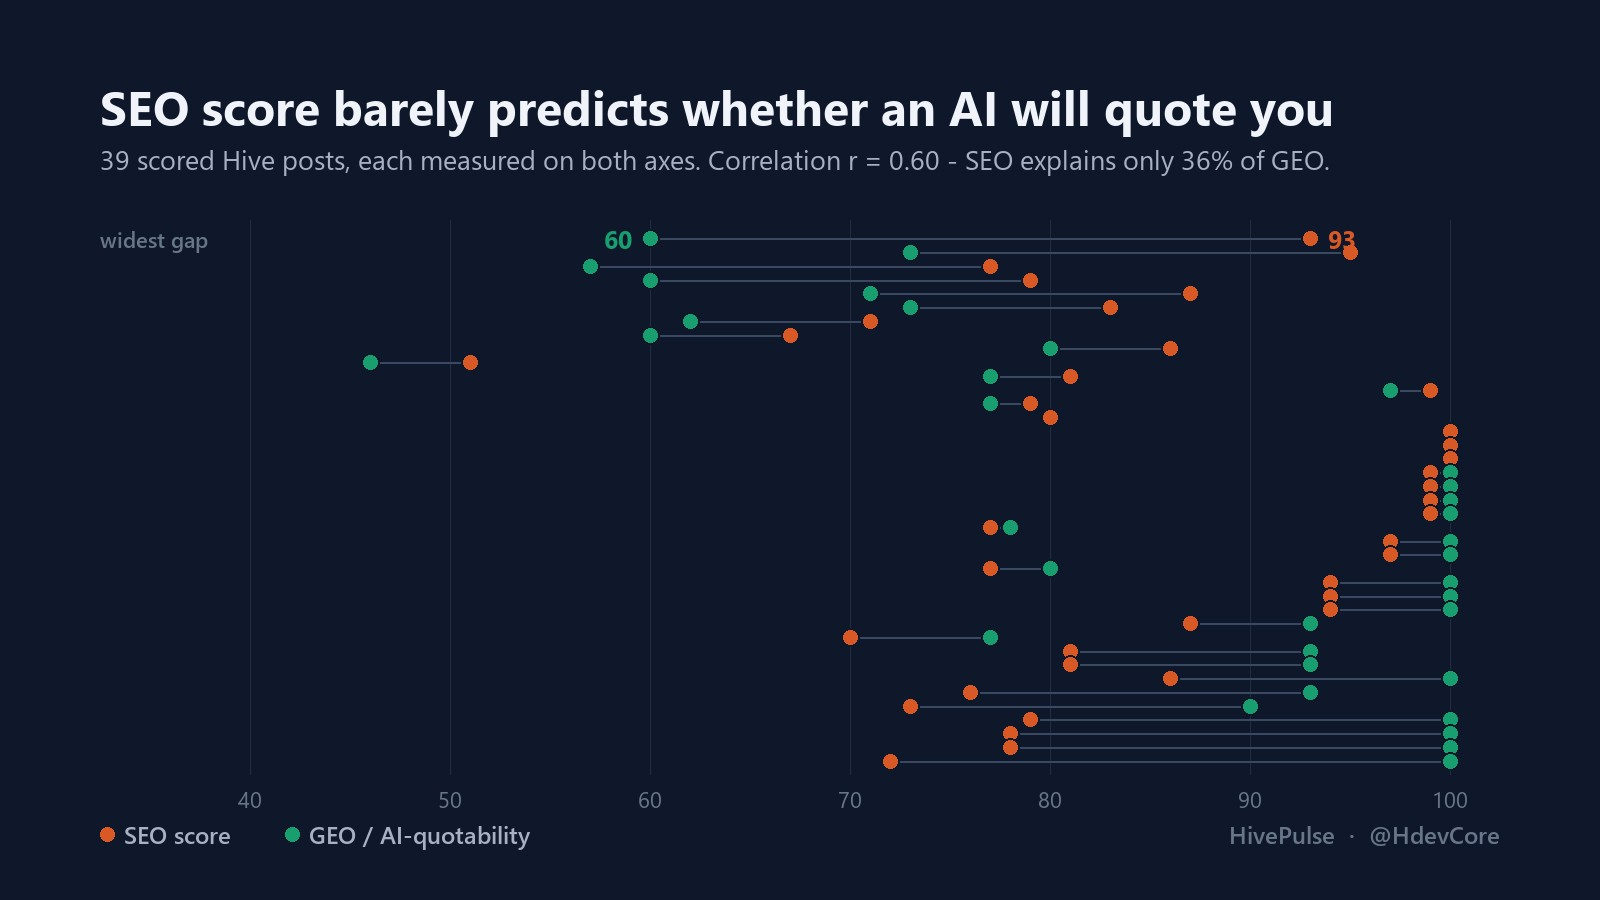
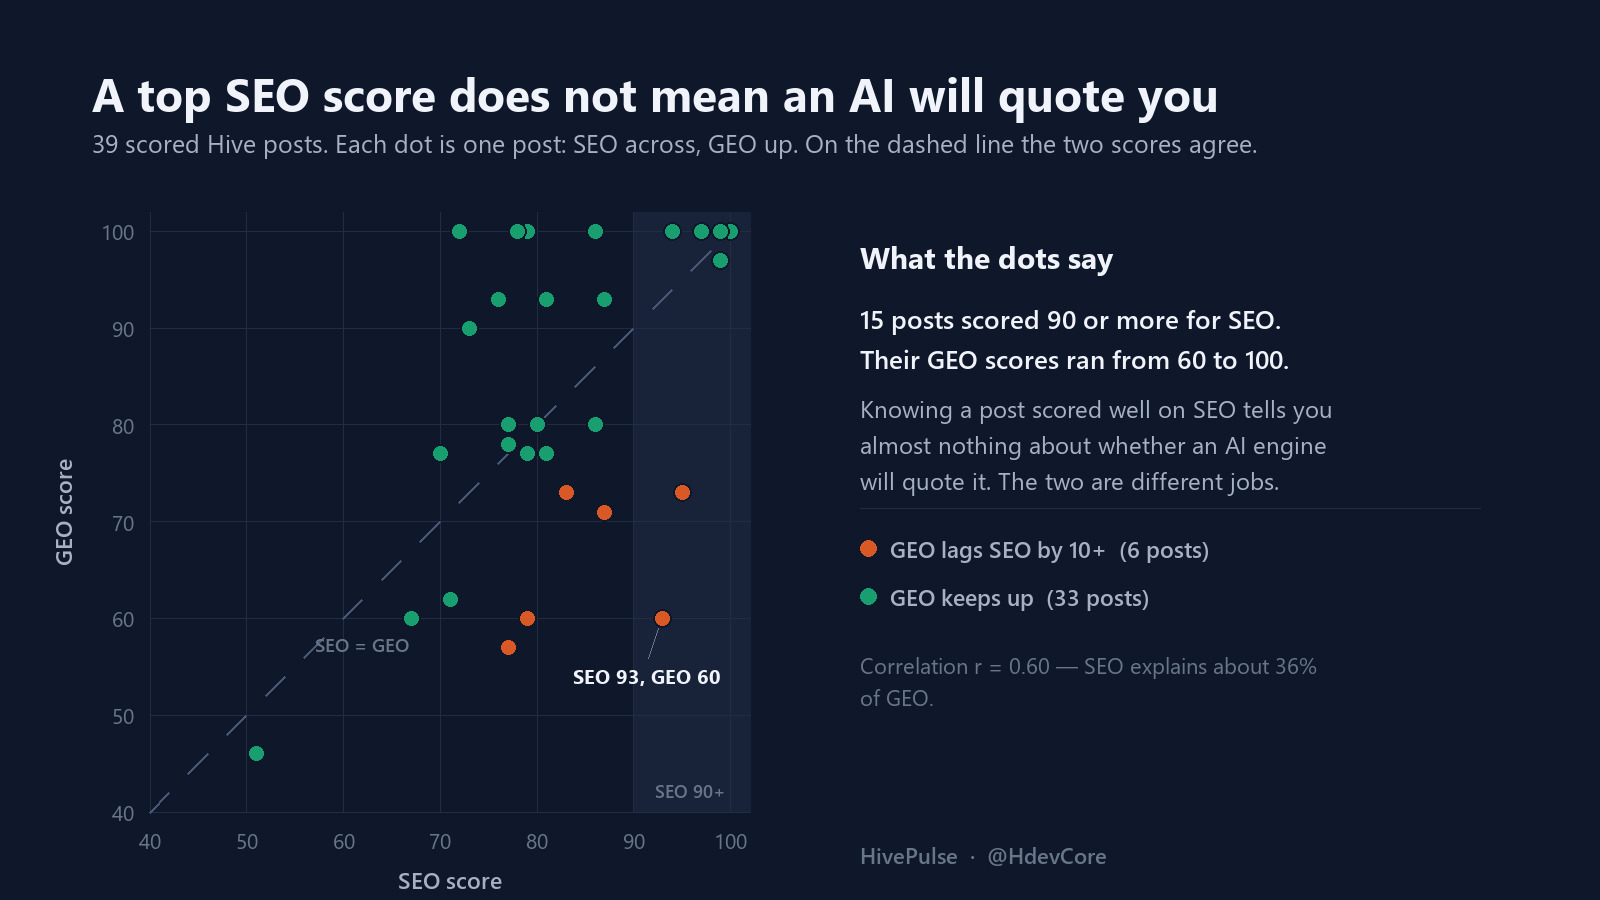
Redraw the SEO/GEO chart as a scatter — the dumbbell was unreadable
Asked what the old chart was saying, and could not answer it from the
picture. That is the verdict: if the person who ran the contest cannot read
it, nobody scrolling past will.

The dumbbell was the wrong form. The headline is a claim about a
RELATIONSHIP between two measures, and a dumbbell shows 39 unlabelled gaps
with the orange and green dots swapping sides depending on which score is
higher — no consistent direction to read, and a pile of overlapping dots at
the bottom where both scores are near 100. You had to already know the
conclusion to see it.

A scatter states it directly: SEO across, GEO up, with a dashed diagonal
where the two agree. Every dot below the line is a post whose GEO lags its
SEO, and the six worst are coloured.

The headline also changed, from a statistic to a fact. "15 posts scored 90
or more on SEO, and their GEO ran from 60 to 100" is the same information as
r = 0.60 but readable without statistics. Both are on the chart; the range
leads.

Palette re-validated with the dataviz skill's validator against this dark
surface rather than eyeballed — #d95926 / #199e70 passes lightness band,
chroma, CVD (deutan dE 9.4), normal-vision separation (26.5) and contrast.
Three candidate palettes failed the lightness band first.

Rendered and looked at it three times. First pass: the footer sat on the
x-axis title, and the worst-case label landed beside a different orange dot.
Second pass: the band label was hidden behind the row of dots at GEO 100.
[…]

diff --git a/scripts/make_week6_chart.py b/scripts/make_week6_chart.py
@@ -1,16 +1,27 @@
 #!/usr/bin/env python3
 """
-Dumbbell chart: SEO score vs GEO (AI-quotability) across every scored contest post.
-
-The story is the GAP between the two measures, so rows are sorted by gap descending
-and each post gets one connected pair. Posts are unlabelled — the distribution is the
-point, and naming individuals next to a low score adds nothing analytically.
-
-Palette validated with the dataviz skill's validator against a dark surface:
-  #d95926 / #199e70 — lightness band PASS, chroma PASS, CVD deutan dE 9.4 PASS,
-  normal-vision dE 26.5 PASS, contrast PASS.
+Scatter: SEO score against GEO (AI-quotability) for every scored contest post.
 
     python scripts/make_week6_chart.py
+
+Writes enhancements/images/social/geo-vs-seo-week6.jpg at 1600x900.
+
+Replaces a dumbbell chart that could not carry its own headline. The claim is about a
+RELATIONSHIP between two measures, and a dumbbell shows 39 unlabelled gaps with the two
+colours swapping sides depending on which score is higher — you had to already know the
+conclusion to see it. A scatter with an equal-scores diagonal shows the claim directly:
+every dot below the line is a post whose GEO lags its SEO.
+
+The headline is stated as a range rather than as r, because "15 posts scored 90+ on SEO and
+their GEO ran from 60 to 100" is the same fact as r = 0.60 and can be read without
+statistics. Both appear; the range leads.
+
+Palette #d95926 / #199e70 validated with the dataviz skill's validator against this dark
+surface: lightness band PASS, chroma PASS, CVD deutan dE 9.4 PASS, normal-vision dE 26.5
+PASS, contrast PASS.
+
+Posts are unlabelled by name on purpose — the distribution is the point, and naming an
+individual next to a low score adds nothing.
 """
 
 from PIL import Image, ImageDraw, ImageFont
@@ -23,35 +34,39 @@ SURFACE = (15, 23, 42)
 INK     = (240, 244, 250)
 INK_2   = (166, 178, 196)
 INK_3   = (104, 118, 138)
-SEO_C   = (217, 89, 38)     # #d95926
-GEO_C   = (25, 158, 112)    # #199e70
+LAG_C   = (217, 89, 38)     # #d95926 — GEO lags SEO by 10+
+OK_C    = (25, 158, 112)    # #199e70 — GEO keeps up
 GRID    = (34, 45, 66)
+BAND    = (24, 34, 56)
+
+LAG_GAP = 10                # points of SEO-minus-GEO that counts as "lagging"
 
 F = {'bold': ['C:/Windows/Fonts/segoeuib.ttf', 'C:/Windows/Fonts/arialbd.ttf'],
      'semi': ['C:/Windows/Fonts/seguisb.ttf', 'C:/Windows/Fonts/segoeuib.ttf'],
      'reg':  ['C:/Windows/Fonts/segoeui.ttf', 'C:/Windows/Fonts/arial.ttf']}
 _c = {}
+
+
 def font(w, s):
     k = (w, s)
     if k not in _c:
         for p in F[w]:
             if os.path.exists(p):
-                _c[k] = ImageFont.truetype(p, s); break
+                _c[k] = ImageFont.truetype(p, s)
+                break
         else:
             _c[k] = ImageFont.load_default()
     return _c[k]
 
 
 def load():
-    # Every archived round, not just the first two. Week 3's CSV was never archived, so
-    # this covers 39 of the 46 posts scored to date — the distribution is the point, and
-    # the correlation below is recomputed from whatever is actually loaded rather than
-    # carried over from an earlier round.
+    """Every archived round. Week 3's CSV was never archived, so this is 39 of the 46
+    posts scored to date."""
     rows = []
     for f in sorted(glob.glob('contest-results-week*.csv')):
         for r in csv.DictReader(open(f, encoding='utf-8')):
             rows.append((int(r['seo_pct']), int(r['geo_score'])))
-    return sorted(rows, key=lambda t: -(t[0] - t[1]))     # widest gap first
+    return rows
 
 
 def pearson(data):
@@ -66,62 +81,102 @@ def pearson(data):
 
 def main():
     data = load()
+    r = pearson(data)
+    hi = [b for a, b in data if a >= 90]
+
     im = Image.new('RGB', (W, H), SURFACE)
     d = ImageDraw.Draw(im)
 
     # ── header
-    d.text((100, 74), 'SEO score barely predicts whether an AI will quote you',
-           font=font('bold', 48), fill=INK)
-    r = pearson(data)
-    d.text((100, 140),
-           f'{len(data)} scored Hive posts, each measured on both axes. '
-           f'Correlation r = {r:.2f} - SEO explains only {r*r*100:.0f}% of GEO.',
-           font=font('reg', 27), fill=INK_2)
+    d.text((92, 62), 'A top SEO score does not mean an AI will quote you',
+           font=font('bold', 46), fill=INK)
+    d.text((92, 126),
+           f'{len(data)} scored Hive posts. Each dot is one post: SEO across, GEO up. '
+           'On the dashed line the two scores agree.',
+           font=font('reg', 25), fill=INK_2)
 
-    # ── plot geometry
-    x0, x1 = 250, W - 150
-    y0, y1 = 232, H - 132
-    lo, hi = 40, 100
-    sx = lambda v: x0 + (v - lo) / (hi - lo) * (x1 - x0)
-    step = (y1 - y0) / len(data)
+    # ── plot geometry: square, because both axes are the same 0-100 unit
+    lo, hi_ax = 40, 102
+    x0, x1 = 150, 750
+    y0, y1 = 212, 812
+    sx = lambda v: x0 + (v - lo) / (hi_ax - lo) * (x1 - x0)
+    sy = lambda v: y1 - (v - lo) / (hi_ax - lo) * (y1 - y0)
 
-    # recessive grid + axis labels
-    for v in range(lo, hi + 1, 10):
-        d.line([(sx(v), y0 - 12), (sx(v), y1 + 6)], fill=GRID, width=1)
-        d.text((sx(v), y1 + 16), str(v), font=font('reg', 22), fill=INK_3, anchor='ma')
+    # the 90+ SEO band this chart is an argument about
+    d.rectangle([sx(90), y0, x1, y1], fill=BAND)
 
-    # ── dumbbells
-    for i, (seo, geo) in enumerate(data):
-        y = y0 + step * i + step / 2
-        a, b = sx(min(seo, geo)), sx(max(seo, geo))
-        d.line([(a, y), (b, y)], fill=(58, 72, 98), width=2)
-        for val, col in ((geo, GEO_C), (seo, SEO_C)):
-            cx = sx(val); r = 7
-            # 2px surface ring so overlapping marks stay separable
-            d.ellipse([cx - r - 2, y - r - 2, cx + r + 2, y + r + 2], fill=SURFACE)
-            d.ellipse([cx - r, y - r, cx + r, y + r], fill=col)
+    # bottom of the band, not the top — the top is a row of dots at GEO 100
+    d.text(((sx(90) + x1) // 2, y1 - 34), 'SEO 90+', font=font('semi', 18),
+           fill=INK_3, anchor='ma')
 
-    # ── selective direct labels: only the widest gap, which carries the headline
-    seo, geo = data[0]
-    y = y0 + step / 2
-    d.text((sx(geo) - 18, y), str(geo), font=font('bold', 25), fill=GEO_C, anchor='rm')
-    d.text((sx(seo) + 18, y), str(seo), font=font('bold', 25), fill=SEO_C, anchor='lm')
-    d.text((100, y), 'widest gap', font=font('semi', 22), fill=INK_3, anchor='lm')
+    # recessive grid
+    for v in range(40, 101, 10):
+        d.line([(sx(v), y0), (sx(v), y1)], fill=GRID, width=1)
+        d.line([(x0, sy(v)), (x1, sy(v))], fill=GRID, width=1)
+        d.text((sx(v), y1 + 14), str(v), font=font('reg', 21), fill=INK_3, anchor='ma')
+        d.text((x0 - 16, sy(v)), str(v), font=font('reg', 21), fill=INK_3, anchor='rm')
 
-    # ── legend (always present for 2 series)
-    lx, ly = 100, H - 66
-    for label, col in (('SEO score', SEO_C), ('GEO / AI-quotability', GEO_C)):
-        d.ellipse([lx, ly - 7, lx + 14, ly + 7], fill=col)
-        d.text((lx + 24, ly), label, font=font('semi', 24), fill=INK_2, anchor='lm')
-        lx += int(d.textlength(label, font=font('semi', 24))) + 78
+    # equal-scores diagonal
+    for t in range(0, 62, 4):
+        a, b = lo + t, lo + t + 2
+        if b > 101:
+            break
+        d.line([(sx(a), sy(a)), (sx(b), sy(b))], fill=(70, 86, 116), width=2)
+    d.text((sx(56) + 10, sy(56) - 26), 'SEO = GEO', font=font('semi', 19), fill=INK_3)
 
-    d.text((W - 100, H - 66), 'HivePulse  ·  @HdevCore',
-           font=font('semi', 24), fill=INK_3, anchor='rm')
+    # ── marks: 2px surface ring so coincident dots stay countable
+    for a, b in sorted(data, key=lambda t: -(t[0] - t[1])):
+        cx, cy = sx(a), sy(b)
+        col = LAG_C if (a - b) >= LAG_GAP else OK_C
+        d.ellipse([cx - 9, cy - 9, cx + 9, cy + 9], fill=SURFACE)
+        d.ellipse([cx - 7, cy - 7, cx + 7, cy + 7], fill=col)
 
-    os.makedirs(os.path.dirname(OUT), exist_ok=True)
-    im.save(OUT, 'JPEG', quality=90, optimize=True, progressive=True)
-    print(f'{OUT}  {os.path.getsize(OUT)/1024:.0f} KB   ({len(data)} posts, '
-          f'widest gap {data[0][0]-data[0][1]} pts)')
+    # direct label on the single worst case only
+    wa, wb = max(data, key=lambda t: t[0] - t[1])
+    # down-left into clear space: up-right runs into the legend, left runs into
+    # the neighbouring dots at SEO 67-78
+    d.line([(sx(wa) - 4, sy(wb) + 10), (sx(wa) - 14, sy(wb) + 40)], fill=INK_3, width=1)
+    d.text((sx(wa) - 16, sy(wb) + 44), f'SEO {wa}, GEO {wb}',
+           font=font('bold', 20), fill=INK, anchor='ma')
+
+    # axis titles
+    d.text(((x0 + x1) // 2, y1 + 52), 'SEO score', font=font('semi', 23), fill=INK_2, anchor='ma')
+    lab = Image.new('RGB', (150, 32), SURFACE)
+    ImageDraw.Draw(lab).text((75, 16), 'GEO score', font=font('semi', 23), fill=INK_2, anchor='mm')
+    im.paste(lab.rotate(90, expand=True), (x0 - 104, (y0 + y1) // 2 - 75))
+
+    # ── right-hand panel: the argument in words
+    px = 860
+    d.text((px, 236), 'What the dots say', font=font('bold', 30), fill=INK)
+
+    d.text((px, 300), f'{len(hi)} posts scored 90 or more for SEO.',
+           font=font('semi', 26), fill=INK)
+    d.text((px, 340), f'Their GEO scores ran from {min(hi)} to {max(hi)}.',
+           font=font('semi', 26), fill=INK)
+    d.text((px, 392),
+           'Knowing a post scored well on SEO tells you\n'
+           'almost nothing about whether an AI engine\n'
+           'will quote it. The two are different jobs.',
+           font=font('reg', 24), fill=INK_2, spacing=10)
+
+    d.line([(px, 508), (px + 620, 508)], fill=GRID, width=1)
+
+    lag_n = sum(1 for a, b in data if (a - b) >= LAG_GAP)
+    d.ellipse([px, 540, px + 16, 556], fill=LAG_C)
+    d.text((px + 30, 548), f'GEO lags SEO by {LAG_GAP}+  ({lag_n} posts)',
+           font=font('semi', 23), fill=INK_2, anchor='lm')
+    d.ellipse([px, 588, px + 16, 604], fill=OK_C)
+    d.text((px + 30, 596), f'GEO keeps up  ({len(data) - lag_n} posts)',
+           font=font('semi', 23), fill=INK_2, anchor='lm')
+
+    d.text((px, 650), f'Correlation r = {r:.2f} — SEO explains about {r*r*100:.0f}%\nof GEO.',
+           font=font('reg', 22), fill=INK_3, spacing=8)
+
+    d.text((px, H - 60), 'HivePulse  ·  @HdevCore', font=font('semi', 22), fill=INK_3)
+
+    im.save(OUT, quality=92, subsampling=0)
+    print(f'  {OUT}  {os.path.getsize(OUT)//1024} KB   '
+          f'({len(data)} posts, r={r:.2f}, {lag_n} lagging)')
 
 
 if __name__ == '__main__':

diff --git a/enhancements/seo-contest-week7-announcement.md b/enhancements/seo-contest-week7-announcement.md
@@ -238,9 +238,9 @@ Update from [Chrome](https://chromewebstore.google.com/detail/hivepulse/hakcpohp
 
 Six rounds in, 46 posts scored on both axes. The pattern has not shifted: SEO scores cluster high because Hive creators already write decent titles and headings. GEO — whether an AI answer engine can lift a passage out of your post and cite it — is where the gap sits, and GEO is where week 6 separated 4th place from 9th.
 
-![Dumbbell chart of 39 scored Hive contest posts, each showing its SEO score in orange and its GEO score in green joined by a line, sorted with the widest gap at the top where one post scored 93 for SEO but only 60 for GEO; the correlation between the two measures is 0.60](PASTE_UPLOADED_CHART_URL_HERE)
+![Scatter plot of 39 scored Hive contest posts with SEO score on the horizontal axis and GEO score on the vertical axis. A dashed diagonal marks where the two scores would be equal. Most dots sit above or near the line in green, six sit well below it in orange, and one post scored 93 for SEO but only 60 for GEO. Of the 15 posts that scored 90 or more for SEO, GEO scores ranged from 60 to 100.](PASTE_UPLOADED_CHART_URL_HERE)
 
-Across every post we have scored, the correlation between the two measures is just **0.60** — SEO explains about a third of GEO. A high SEO score is not evidence that an AI engine will quote you. Those are two different jobs, and most entrants are already winning the first one.
+Fifteen of those posts scored **90 or more on SEO**. Their GEO scores ran from **60 to 100** — the full width of the range. Knowing a post did well on SEO tells you almost nothing about whether an AI engine will quote it, which is the same thing the correlation says more coldly: r = 0.60, so SEO explains about a third of GEO. Two different jobs, and most entrants are already winning the first one.
 
 1. **Open with the answer.** First 8–60 words, before any preamble. All three perfect scores did this.
 2. **Write self-contained sentences.** "This shows…" means nothing when quoted alone. Name the subject inside the sentence.

diff --git a/enhancements/week7-post-body.md b/enhancements/week7-post-body.md
@@ -145,9 +145,9 @@ Update from [Chrome](https://chromewebstore.google.com/detail/hivepulse/hakcpohp
 
 Six rounds in, 46 posts scored on both axes. The pattern has not shifted: SEO scores cluster high because Hive creators already write decent titles and headings. GEO — whether an AI answer engine can lift a passage out of your post and cite it — is where the gap sits, and GEO is where week 6 separated 4th place from 9th.
 
-![Dumbbell chart of 39 scored Hive contest posts, each showing its SEO score in orange and its GEO score in green joined by a line, sorted with the widest gap at the top where one post scored 93 for SEO but only 60 for GEO; the correlation between the two measures is 0.60](PASTE_UPLOADED_CHART_URL_HERE)
+![Scatter plot of 39 scored Hive contest posts with SEO score on the horizontal axis and GEO score on the vertical axis. A dashed diagonal marks where the two scores would be equal. Most dots sit above or near the line in green, six sit well below it in orange, and one post scored 93 for SEO but only 60 for GEO. Of the 15 posts that scored 90 or more for SEO, GEO scores ranged from 60 to 100.](PASTE_UPLOADED_CHART_URL_HERE)
 
-Across every post we have scored, the correlation between the two measures is just **0.60** — SEO explains about a third of GEO. A high SEO score is not evidence that an AI engine will quote you. Those are two different jobs, and most entrants are already winning the first one.
+Fifteen of those posts scored **90 or more on SEO**. Their GEO scores ran from **60 to 100** — the full width of the range. Knowing a post did well on SEO tells you almost nothing about whether an AI engine will quote it, which is the same thing the correlation says more coldly: r = 0.60, so SEO explains about a third of GEO. Two different jobs, and most entrants are already winning the first one.
 
 1. **Open with the answer.** First 8–60 words, before any preamble. All three perfect scores did this.
 2. **Write self-contained sentences.** "This shows…" means nothing when quoted alone. Name the subject inside the sentence.
